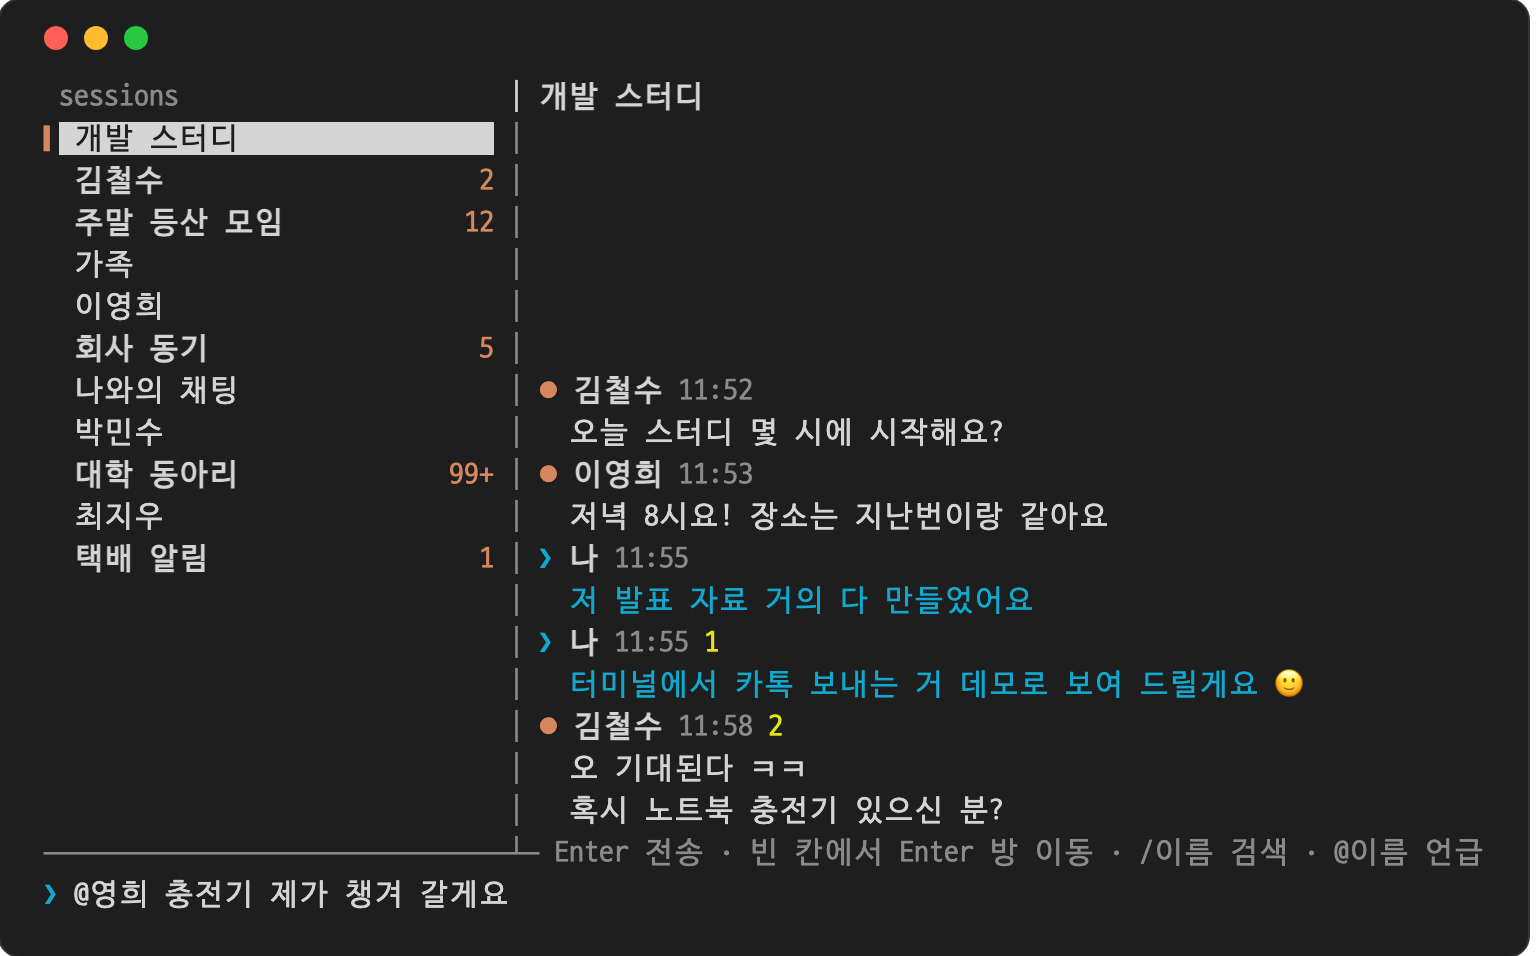
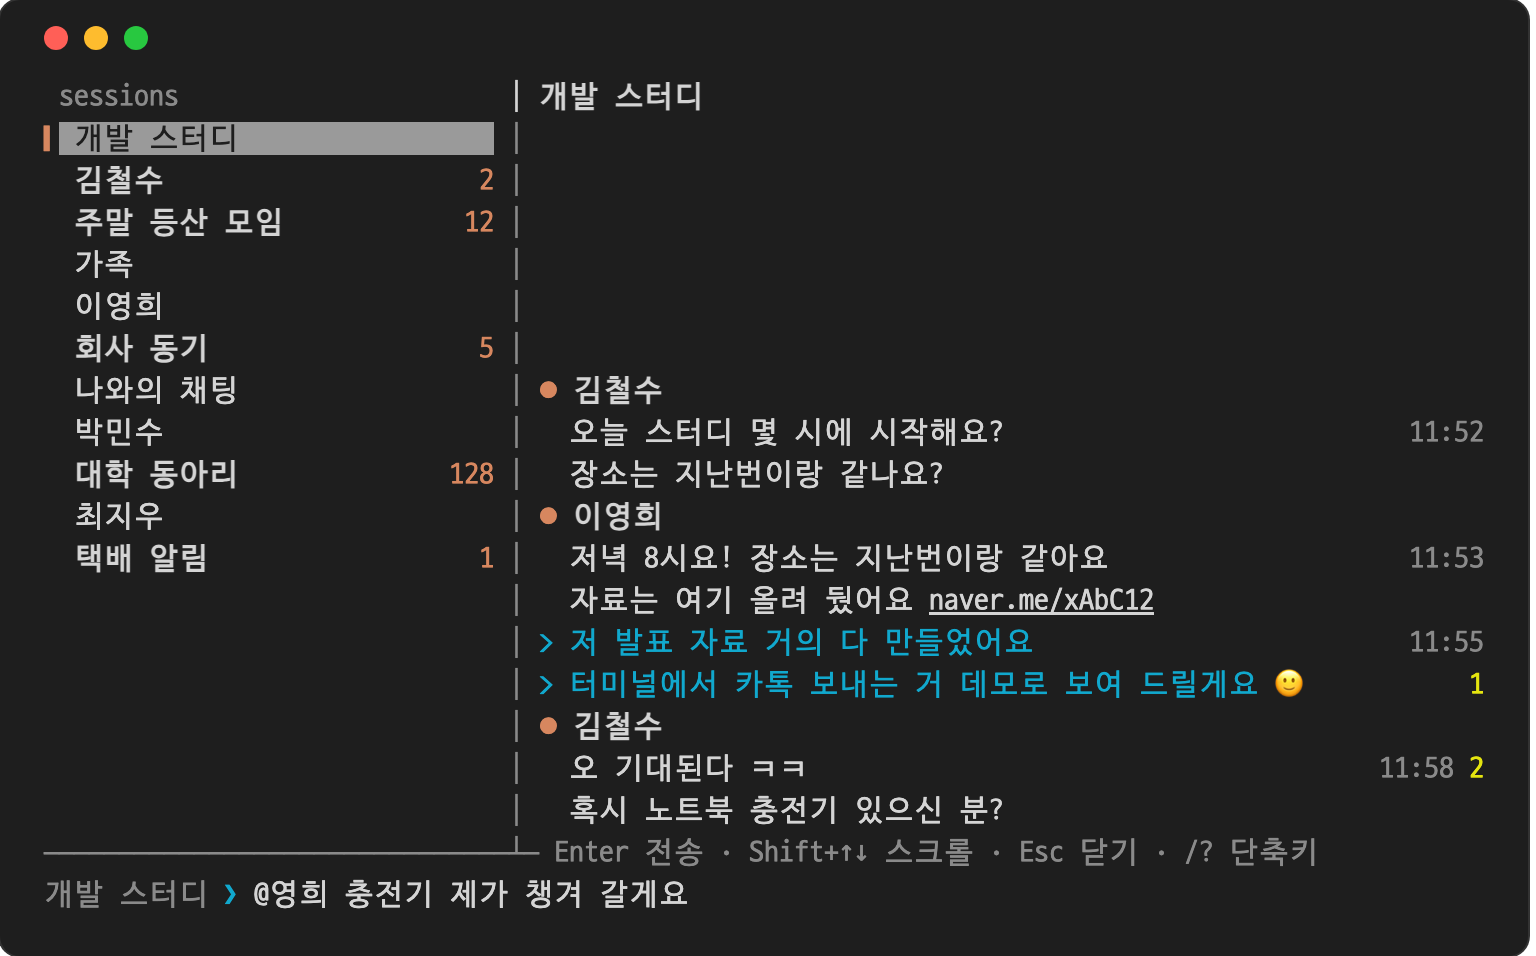
v1.0.0: 연속 메시지 묶기, 시간 오른쪽 정렬, 입력줄에 보낼 방 이름

diff --git a/main.swift b/main.swift
@@ -61,7 +61,7 @@ func node(_ e: AXUIElement) -> Node {
 
 // MARK: - 카카오톡 연결
 
-let version = "0.5.5"
+let version = "1.0.0"
 if CommandLine.arguments.contains("--version") { print("nunchi \(version)"); exit(0) }
 
 // MARK: - 업데이트
@@ -951,15 +951,25 @@ func draw() {
   if roomList.isEmpty { left = [" \(dim)\(fit("목록 읽는 중…", leftW - 1))\(reset)"] }
 
   // 오른쪽: 대화 (아래쪽 정렬)
+  // 같은 사람이 이어서 보낸 메시지는 이름 줄을 한 번만 쓰고, 시간·안 읽은 수는 오른쪽 칸에 둔다.
+  // 내 메시지는 이름 줄 없이 "> "로 시작한다 (AI 도구의 사용자 입력처럼).
   var right: [String] = []
+  let gutter = 10
+  let textW = max(10, rightW - 2 - gutter)
+  var lastKey: String?, lastTime = ""
   for m in chat {
-    let unread = m.unread > 0 ? " \(yellow)\(m.unread)\(reset)" : ""
-    if m.mine {
-      right.append("\(cyan)❯\(reset) \(bold)나\(reset) \(dim)\(m.time)\(reset)\(unread)")
-      for l in linkedLines(m.body, rightW - 2) { right.append("  \(cyan)\(l)\(reset)") }
-    } else {
-      right.append("\(orange)⏺\(reset) \(bold)\(m.sender)\(reset) \(dim)\(m.time)\(reset)\(unread)")
-      for l in linkedLines(m.body, rightW - 2) { right.append("  \(l)") }
+    let key = m.mine ? "\u{0}나" : m.sender
+    let newGroup = key != lastKey
+    if newGroup && !m.mine { right.append("\(orange)⏺\(reset) \(bold)\(m.sender)\(reset)") }
+    let showTime = newGroup || m.time != lastTime
+    lastKey = key; lastTime = m.time
+    let metaPlain = [showTime ? m.time : nil, m.unread > 0 ? String(m.unread) : nil].compactMap { $0 }.joined(separator: " ")
+    let metaStyled = [showTime ? "\(dim)\(m.time)\(reset)" : nil, m.unread > 0 ? "\(yellow)\(m.unread)\(reset)" : nil].compactMap { $0 }.joined(separator: " ")
+    let meta = String(repeating: " ", count: max(0, gutter - width(metaPlain))) + metaStyled
+    for (i, l) in linkedLines(m.body, textW).enumerated() {
+      let lead = m.mine ? (i == 0 ? "\(cyan)>\(reset) " : "  ") : "  "
+      let text = m.mine ? "\(cyan)\(l)\(reset)" : l
+      right.append(lead + text + (i == 0 ? meta : ""))
     }
   }
   let helpScreen = showHelp || currentName == nil
@@ -1008,9 +1018,16 @@ func draw() {
   s += "\(dim)\(String(repeating: "─", count: leftW + 1))┴─ \(fit(hint, rightW - 1))\(reset)\u{1B}[K\r\n"
 
   // 입력줄: 오른쪽 끝이 넘치면 뒷부분만 보여준다
+  // 엉뚱한 방에 보내지 않도록 보낼 방 이름을 프롬프트 앞에 붙인다
+  var prompt = "\(cyan)❯\(reset) ", promptW = 2
+  if let name = currentName {
+    var n = name
+    if width(n) > 14 { n = fit(name, 13); while n.hasSuffix(" ") { n.removeLast() }; n += "…" }
+    prompt = "\(dim)\(n)\(reset) \(cyan)❯\(reset) "; promptW = width(n) + 3
+  }
   var shown = String(inputBuf)
-  while width(shown) > cols - 4 { shown.removeFirst() }
-  s += "\(cyan)❯\(reset) \(shown)\u{1B}[K"
+  while width(shown) > cols - 2 - promptW { shown.removeFirst() }
+  s += "\(prompt)\(shown)\u{1B}[K"
   out(s)
   dirty = false
 }
@@ -1151,7 +1168,9 @@ func runDemo() -> Never {
   currentName = "개발 스터디"
   chat = [
     Message(sender: "김철수", time: "11:52", body: "오늘 스터디 몇 시에 시작해요?", mine: false),
+    Message(sender: "김철수", time: "11:52", body: "장소는 지난번이랑 같나요?", mine: false),
     Message(sender: "이영희", time: "11:53", body: "저녁 8시요! 장소는 지난번이랑 같아요", mine: false),
+    Message(sender: "이영희", time: "11:53", body: "자료는 여기 올려 뒀어요 naver.me/xAbC12", mine: false),
     Message(sender: "나", time: "11:55", body: "저 발표 자료 거의 다 만들었어요", mine: true),
     Message(sender: "나", time: "11:55", body: "터미널에서 카톡 보내는 거 데모로 보여 드릴게요 🙂", mine: true, unread: 1),
     Message(sender: "김철수", time: "11:58", body: "오 기대된다 ㅋㅋ\n혹시 노트북 충전기 있으신 분?", mine: false, unread: 2),

diff --git a/README.md b/README.md
@@ -104,6 +104,12 @@ nunchi
 
 ## 변경 이력
 
+### v1.0.0 (2026-10-12) 첫 정식 버전
+- 화면 개선: 같은 사람이 이어서 보낸 메시지는 이름을 한 번만 표시하고, 시간·안 읽은 수는 오른쪽에 정렬 (같은 대화를 30% 정도 적은 줄로 표시)
+- 내 메시지는 `> `로 시작하는 한 줄로 표시
+- 입력줄 앞에 보낼 채팅방 이름 표시 (`개발 스터디 ❯`) — 엉뚱한 방에 보내는 실수 방지
+- README 스크린샷 갱신
+
 ### v0.5.5 (2026-10-07)
 - 안 읽은 메시지가 300개를 넘은 방(카카오톡 표시 `300+`)에서 숫자가 사라지던 문제 수정. 목록에도 카카오톡처럼 `300+`로 표시
 
